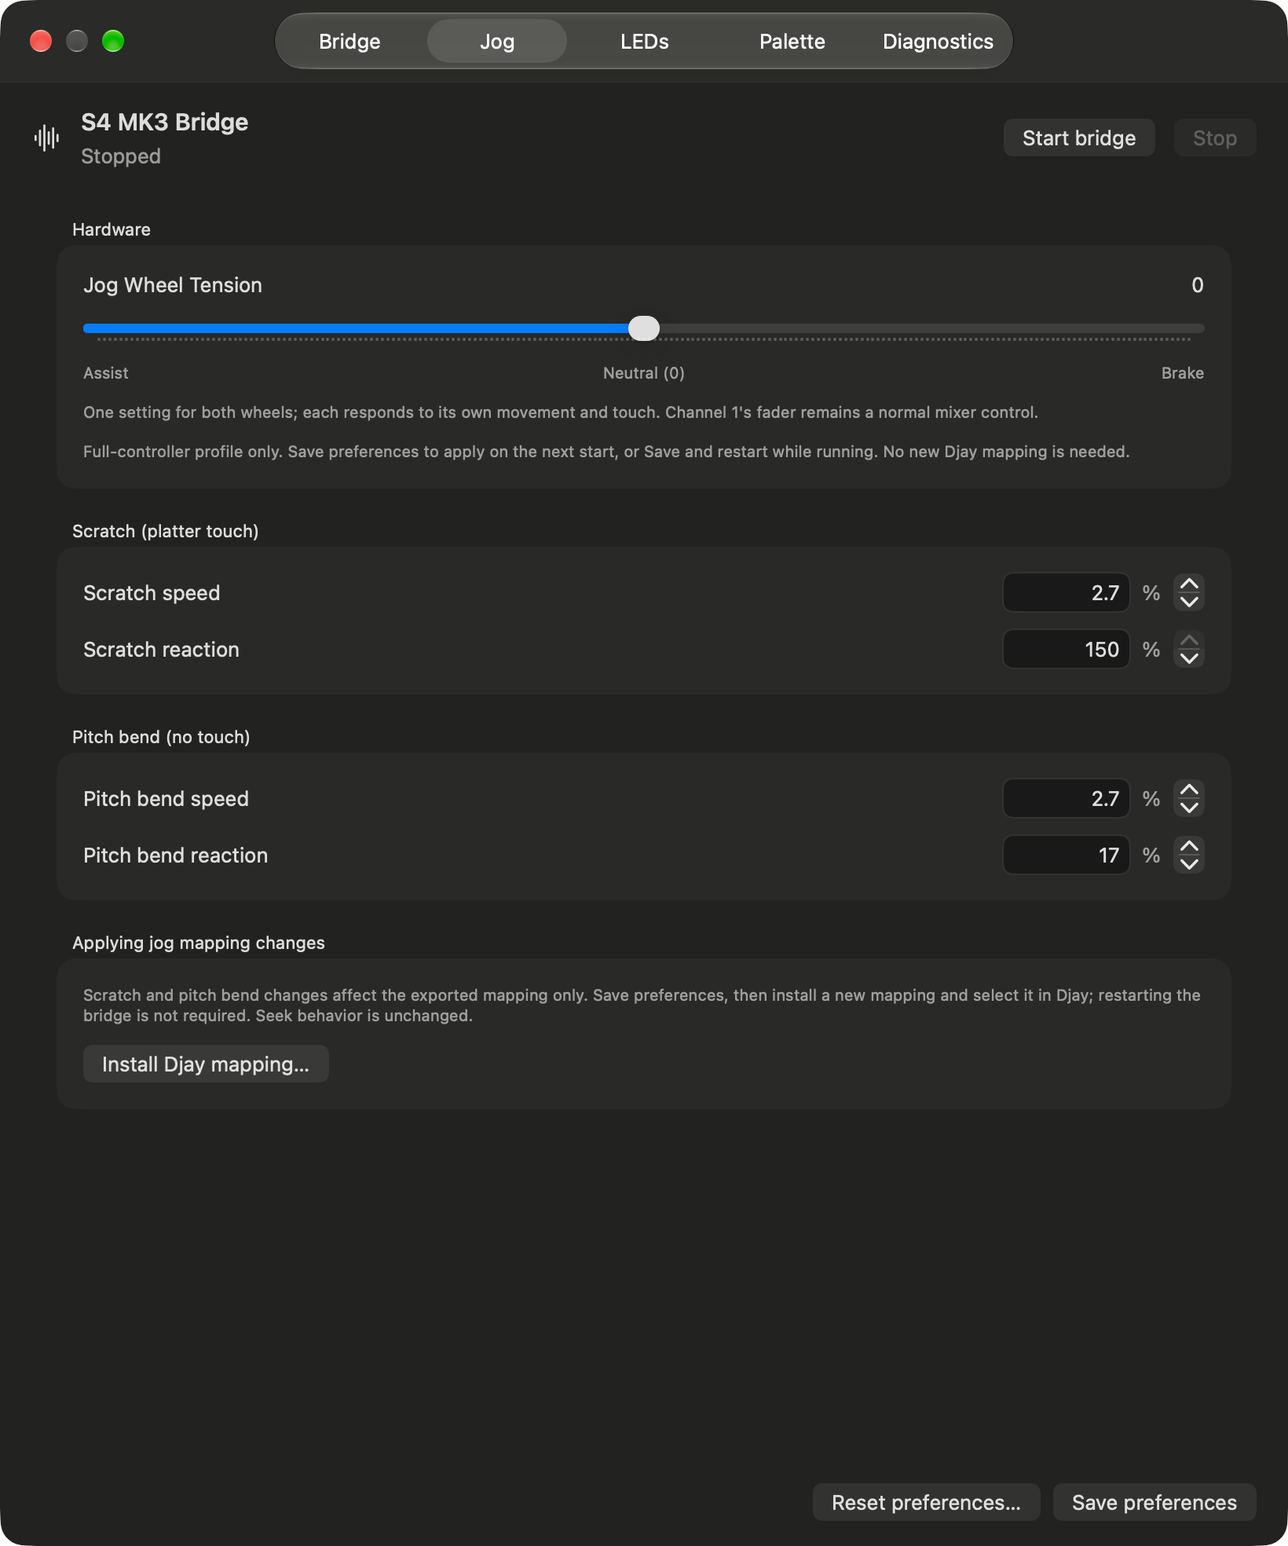
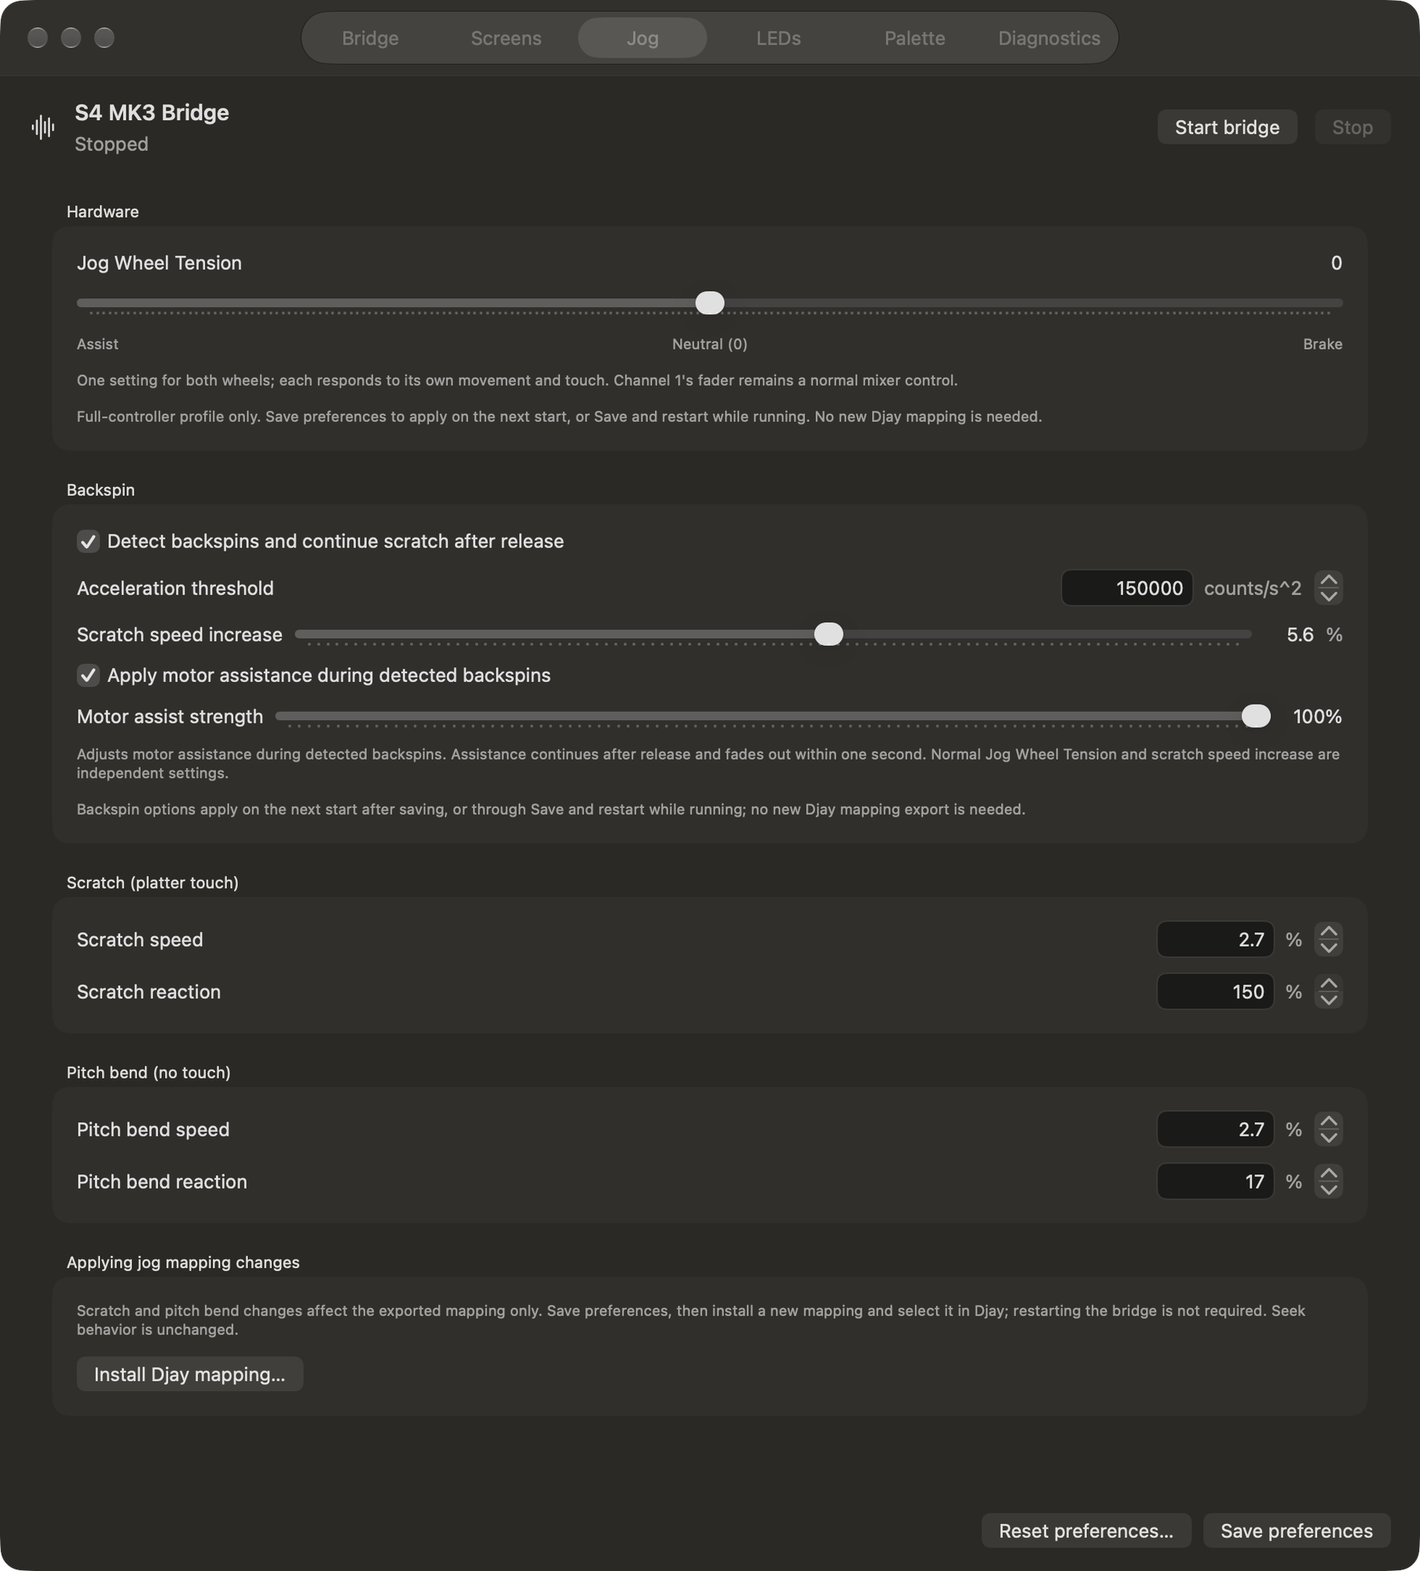
Rename release to 0.2.1-beta.1 and refresh Jog guide

diff --git a/docs/release-0.2.0-beta.2.md b/docs/release-0.2.0-beta.2.md
@@ -1,93 +1,8 @@
 # S4 MK3 Bridge 0.2.0-beta.2
 
-## What's changed since 0.2.0-beta.1
+This release was renamed to
+[0.2.1-beta.1](release-0.2.1-beta.1.md), with rebuilt installers and the same
+controller behavior. Use that release for downloads and update instructions.
 
-### Backspins continue after you let go
-
-Previously, lifting your hand ended scratching even when the platter was still
-spinning backward. A detected backspin now keeps following the wheel's real
-movement after release, so the sound can follow the remaining spin instead of
-cutting straight back to normal playback.
-
-Use **Turntable mode** and give the platter a sharp backward flick, then release.
-Ordinary scratch releases still return to nudging. Touching the platter again,
-stopping it or reversing direction ends the backspin. If you change decks while
-it coasts, the backspin stays with the deck that started it.
-
-In **Settings > Jog > Backspin**:
-
-- **Detection** is enabled by default. Raise **Acceleration threshold** if
-  ordinary scratches trigger it too easily; lower it if your flicks are missed.
-- **Scratch speed increase** adds extra software response only during a
-  detected backspin. The default is **5.6%**, giving backspins more travel
-  without changing ordinary scratch response. Reduce it if you prefer less.
-- **Motor assistance** helps the wheel carry a detected backspin. It is
-  experimental, **on by default at 100% strength**. Set **Motor assist strength**
-  from **0-100%**, or switch assistance off, to suit your feel. This is independent
-  of normal Jog Wheel Tension and software scratch speed. After release,
-  assistance fades out within one second; catching or stopping the wheel
-  ends it earlier.
-
-Choose **Save and restart** to apply changes while running, or save them before
-the next Start. These backspin settings do not need a new mapping export.
-The screen shows **BACKSPIN** and its deck while detection is active, helping
-you tune the threshold. This is gesture-driven assistance, not a platter that
-rotates continuously with playback.
-
-### Browse effects with Shift + knob
-
-Stepping through a long effect list one button press at a time was tedious.
-You can now hold **Shift on the FX strip's side** and turn parameter knob
-**1, 2 or 3** to browse that slot's effects: **clockwise for next,
-counterclockwise for previous**. A larger turn scrolls several effects.
-The strip still controls the deck chosen with the channel's FX1 or FX2 button.
-
-The knobs have end stops. Release Shift, reposition the knob, then hold Shift
-again to keep browsing. Without Shift, the knob returns to parameter control
-and waits until you reach or cross Djay's parameter value before taking over.
-Crossing that value resumes parameter adjustment, so repositioning is not a
-dedicated silent reset gesture. Dry/wet works as before, and **Shift + effect
-button** remains available for a single next-effect step.
-
-### Clearer lights and fewer false FX warnings
-
-REV and FLX no longer stay almost equally bright when off and on. Their idle
-backlight now follows JOG's idle intensity, making active reverse or Slip
-easier to recognize. Shift is dim at rest and bright while held.
-
-FX pickup warnings also stop briefly reappearing during ordinary knob turns
-just because Djay has not returned the updated value yet. A genuine mismatch
-after changing targets or editing a value with the mouse still asks you to
-move through the software value before taking control.
-
-## Updating
-
-1. Stop the bridge and quit the old app.
-2. Open **S4 MK3 Bridge-0.2.0-beta.2-arm64.dmg** and replace the app in
-   **Applications**, or use the ZIP. Your saved preferences are preserved.
-   Diagnostics should show **0.2.0-beta.2 (build 6)**.
-   The new defaults apply to fresh settings and fields absent from an older
-   configuration; explicitly saved values, including assistance off, are kept.
-3. Use **Install Djay mapping...** in the new app. Save under a new name to
-   preserve custom mappings, then select that configuration in Djay.
-4. Start the bridge. If you changed mappings while it was running, stop and
-   start it again.
-
-**The new mapping is required for Shift + FX knob browsing.** The older mapping
-does not include those controls.
-
-See the [user guide](https://github.com/jtoronto/S4MK3-HID-MIDI-BRIDGE/blob/main/docs/user-guide.md)
-for the full workflows and settings.
-
-Requires an Apple Silicon Mac, macOS 12 or later, Djay Pro with PRO access,
-and a powered S4 MK3. The app remains ad-hoc signed rather than notarized;
-follow the [first-launch instructions](https://github.com/jtoronto/S4MK3-HID-MIDI-BRIDGE/blob/main/README.md#download-and-install)
-if macOS blocks it.
-
-## Still a beta
-
-The main FX ON button still duplicates slot 1 rather than bypassing the whole
-bank. Screens do not show artwork, waveforms or track titles. Playback-driven
-platter rotation remains unsupported. A wheel sensor-time error or USB
-disconnect can still stop the bridge; automatic recovery from brief input
-gaps does not cover those faults.
+The original build's verification remains in
+[its historical validation record](release-0.2.0-beta.2-validation.md).

diff --git a/docs/release-0.2.1-beta.1.md b/docs/release-0.2.1-beta.1.md
@@ -1,0 +1,93 @@
+# S4 MK3 Bridge 0.2.1-beta.1
+
+## What's changed since 0.2.0-beta.1
+
+### Backspins continue after you let go
+
+Previously, lifting your hand ended scratching even when the platter was still
+spinning backward. A detected backspin now keeps following the wheel's real
+movement after release, so the sound can follow the remaining spin instead of
+cutting straight back to normal playback.
+
+Use **Turntable mode** and give the platter a sharp backward flick, then release.
+Ordinary scratch releases still return to nudging. Touching the platter again,
+stopping it or reversing direction ends the backspin. If you change decks while
+it coasts, the backspin stays with the deck that started it.
+
+In **Settings > Jog > Backspin**:
+
+- **Detection** is enabled by default. Raise **Acceleration threshold** if
+  ordinary scratches trigger it too easily; lower it if your flicks are missed.
+- **Scratch speed increase** adds extra software response only during a
+  detected backspin. The default is **5.6%**, giving backspins more travel
+  without changing ordinary scratch response. Reduce it if you prefer less.
+- **Motor assistance** helps the wheel carry a detected backspin. It is
+  experimental, **on by default at 100% strength**. Set **Motor assist strength**
+  from **0-100%**, or switch assistance off, to suit your feel. This is independent
+  of normal Jog Wheel Tension and software scratch speed. After release,
+  assistance fades out within one second; catching or stopping the wheel
+  ends it earlier.
+
+Choose **Save and restart** to apply changes while running, or save them before
+the next Start. These backspin settings do not need a new mapping export.
+The screen shows **BACKSPIN** and its deck while detection is active, helping
+you tune the threshold. This is gesture-driven assistance, not a platter that
+rotates continuously with playback.
+
+### Browse effects with Shift + knob
+
+Stepping through a long effect list one button press at a time was tedious.
+You can now hold **Shift on the FX strip's side** and turn parameter knob
+**1, 2 or 3** to browse that slot's effects: **clockwise for next,
+counterclockwise for previous**. A larger turn scrolls several effects.
+The strip still controls the deck chosen with the channel's FX1 or FX2 button.
+
+The knobs have end stops. Release Shift, reposition the knob, then hold Shift
+again to keep browsing. Without Shift, the knob returns to parameter control
+and waits until you reach or cross Djay's parameter value before taking over.
+Crossing that value resumes parameter adjustment, so repositioning is not a
+dedicated silent reset gesture. Dry/wet works as before, and **Shift + effect
+button** remains available for a single next-effect step.
+
+### Clearer lights and fewer false FX warnings
+
+REV and FLX no longer stay almost equally bright when off and on. Their idle
+backlight now follows JOG's idle intensity, making active reverse or Slip
+easier to recognize. Shift is dim at rest and bright while held.
+
+FX pickup warnings also stop briefly reappearing during ordinary knob turns
+just because Djay has not returned the updated value yet. A genuine mismatch
+after changing targets or editing a value with the mouse still asks you to
+move through the software value before taking control.
+
+## Updating
+
+1. Stop the bridge and quit the old app.
+2. Open **S4 MK3 Bridge-0.2.1-beta.1-arm64.dmg** and replace the app in
+   **Applications**, or use the ZIP. Your saved preferences are preserved.
+   Diagnostics should show **0.2.1-beta.1 (build 7)**.
+   The new defaults apply to fresh settings and fields absent from an older
+   configuration; explicitly saved values, including assistance off, are kept.
+3. Use **Install Djay mapping...** in the new app. Save under a new name to
+   preserve custom mappings, then select that configuration in Djay.
+4. Start the bridge. If you changed mappings while it was running, stop and
+   start it again.
+
+**The new mapping is required for Shift + FX knob browsing.** The older mapping
+does not include those controls.
+
+See the [user guide](https://github.com/jtoronto/S4MK3-HID-MIDI-BRIDGE/blob/main/docs/user-guide.md)
+for the full workflows and settings.
+
+Requires an Apple Silicon Mac, macOS 12 or later, Djay Pro with PRO access,
+and a powered S4 MK3. The app remains ad-hoc signed rather than notarized;
+follow the [first-launch instructions](https://github.com/jtoronto/S4MK3-HID-MIDI-BRIDGE/blob/main/README.md#download-and-install)
+if macOS blocks it.
+
+## Still a beta
+
+The main FX ON button still duplicates slot 1 rather than bypassing the whole
+bank. Screens do not show artwork, waveforms or track titles. Playback-driven
+platter rotation remains unsupported. A wheel sensor-time error or USB
+disconnect can still stop the bridge; automatic recovery from brief input
+gaps does not cover those faults.

diff --git a/README.md b/README.md
@@ -28,9 +28,9 @@ screens without requiring MIDI or development knowledge.
    the disk image.
 4. Open **S4 MK3 Bridge** from Applications.
 
-**0.2.0-beta.2 (build 6)** adds backspin continuation and motor assistance,
+**0.2.1-beta.1 (build 7)** adds backspin continuation and motor assistance,
 Shift + FX knob effect browsing, and clearer LED/FX feedback. See
-[what changed and how to use it](docs/release-0.2.0-beta.2.md).
+[what changed and how to use it](docs/release-0.2.1-beta.1.md).
 Version 0.2.0 adds screens, updated Preview/CUE/library controls, startup channel
 synchronization, FX pickup and jump-size restoration. Use the app and mapping
 supplied together; beta.3's older mapping does not provide these additions.
@@ -90,8 +90,8 @@ _Bridge controls and mapping installation._
 ## Controls and differences from Traktor
 
 This section and the [user guide](docs/user-guide.md) describe the current
-0.2.0-beta.2 build. Backspin continuation, Shift + FX knob browsing and the latest
-lamp/FX-warning corrections require beta.2; beta.1 lacks them.
+0.2.1-beta.1 build. Backspin continuation, Shift + FX knob browsing and the latest
+lamp/FX-warning corrections are not included in 0.2.0-beta.1.
 
 The mapping covers four-deck transport, touch scratching and pitch bending,
 mixing, EQ, headphone cue, loops, browsing, hotcues, samples, Neural Mix, and
@@ -205,12 +205,27 @@ run while the bridge is running. **Saving or restarting alone doesn't apply
 jog mapping changes.** Keep existing custom mappings under their original names.
 
 Speed and Reaction adjust Djay's response, independently of hardware tension.
-Current-source builds handle released backspin through the separate
-[Backspin controls](docs/user-guide.md#backspin-detection), not these mapping parameters.
 
-![Jog settings showing Hardware Jog Wheel Tension and separate scratch and pitch-bend controls](docs/images/jog-settings.png)
+#### Backspins
 
-_Jog settings at Neutral (0), with the calibrated scratch and pitch-bend defaults._
+A sharp backward flick in Turntable mode can continue scratching after you
+release the platter, following its remaining real movement. Catching or stopping
+the wheel ends the backspin.
+
+In **Jog > Backspin**, adjust the detection threshold, **Scratch speed increase**
+and **Motor assist strength**. The defaults are **5.6%** extra scratch speed and
+motor assistance **on at 100%**. Software speed and motor help are independent
+of your normal scratch response and Jog Wheel Tension. Motor help fades out
+within one second after release; this is not playback-driven platter rotation.
+
+Use **Save and restart** to apply changes. No mapping export is needed for
+backspin options, and upgrading preserves explicit saved choices. See the
+[Backspin guide](docs/user-guide.md#backspin-detection) for tuning and details.
+
+![Jog settings showing Hardware tension, Backspin detection, scratch speed increase and motor assist controls, plus scratch and pitch-bend mapping settings](docs/images/jog-settings.png)
+
+_Jog settings with the Backspin controls, 5.6% speed increase and motor assistance
+enabled at 100%, alongside neutral tension and calibrated scratch/pitch-bend defaults._
 
 The menu-bar icon turns green while the bridge is running. In source builds,
 it turns red if requested screens are blocked or fail while the bridge keeps
@@ -224,16 +239,6 @@ and remaining checks.
 
 Open bugs and unresolved behavior:
 
-- **Jog feel and backspin:** current source adds experimental backspin detection,
-  an adjustable threshold and optional scratch-speed increase, with an owning-deck
-  screen indicator. Tune the threshold and boost to your gestures; ordinary
-  scratch response still depends on Djay's Speed/Reaction settings. A separate
-  motor-assist option defaults on at 100% strength, with its own 0-100% control. It continues
-  after release with a one-second fade, preserving normal tension. Save/restart
-  lets you compare settings yourself. It is not playback-driven rotation.
-  The default backspin-only scratch speed increase is 5.6%; explicit saved
-  settings are preserved when upgrading.
-  See [Backspin controls](docs/user-guide.md#backspin-detection).
 - **Sensor-time safety exit:** reversed wheel-sensor time stops the bridge.
   Keep the exact Diagnostics error if this occurs; it is separate from the
   automatically recovering 50 ms input-gap path.

diff --git a/docs/release-0.2.1-beta.1-validation.md b/docs/release-0.2.1-beta.1-validation.md
@@ -1,0 +1,67 @@
+# Release version replacement: 0.2.1-beta.1
+
+October 26, 2026. Internal verification record. End-user notes are in
+[release-0.2.1-beta.1.md](release-0.2.1-beta.1.md).
+
+## Scope
+
+After publication of 0.2.0-beta.2, the user requested 0.2.1-beta.1 and explicitly
+selected replacement of the published release. Source and bundle metadata now
+use release `0.2.1-beta.1`, numeric version `0.2.1` and build `7`. Controller
+behavior, mapping and the requested 5.6%/enabled/100% backspin defaults are
+unchanged. Explicit saved preferences remain preserved.
+
+GitHub release ID 424776748 was confirmed mutable. The replacement uses a new
+annotated tag and rebuilt installers, without rewriting or deleting the
+historical `v0.2.0-beta.2` tag. The original local installers and
+[validation record](release-0.2.0-beta.2-validation.md) remain preserved.
+
+## Source checks
+
+All 358 Rust tests passed in a single serial no-fail-fast run, followed by all
+55 Swift tests. Formatting, strict locked all-target/all-feature Clippy, the
+locked all-target build, build-script syntax, Info.plist lint and whitespace
+checks passed. The two existing SwiftPM unhandled-file warnings remain.
+The later README/image edits do not alter bundled source or resources.
+
+## README correction and screenshot
+
+The user requested a fresh Jog screenshot including Backspin, dark mode to
+match the other images, and removal of accepted backspin functionality from
+Known issues. README now describes backspins under ordinary Jog usage and
+retains actual unresolved faults in its limitations list.
+
+`docs/images/jog-settings.png` is a fresh 1960 x 2168 native dark-mode capture
+of the production `BridgeSettingsView`. It shows Hardware, Backspin, Scratch,
+Pitch bend and mapping instructions without clipped sections. The shown
+backspin defaults are 5.6%, motor assistance enabled and strength 100%.
+
+The capture used an isolated native harness with temporary preference/resource
+directories, no bridge executable and an offline NI agent. No Start, Save or
+hardware operation was invoked, and no real preferences were changed. The
+capture helper was compiled with all production Swift sources; it was closed
+after capture. A command-line capture omitted content, so the final image was
+saved directly from the native computer capture backend and visually inspected
+from its final repository path. It is not a recreated or generated mockup.
+
+## Installers
+
+Built separately with `CARGO_PROFILE_RELEASE_STRIP=none` and
+`S4_BRIDGE_OUTPUT_DIR="$PWD/dist/Release-0.2.1-beta.1-20261026"`:
+
+- `S4 MK3 Bridge.app`
+- `S4 MK3 Bridge-arm64.zip`
+- `S4 MK3 Bridge-0.2.1-beta.1-arm64.dmg`
+
+Build, deep strict signatures, ZIP integrity and DMG verification passed.
+The app, extracted ZIP app and read-only-mounted DMG app each passed release,
+numeric/build version, bundled CLI version, mapping plist lint and byte
+comparisons of all default configurations, font license and mapping.
+The mapping matches the preceding accepted release byte-for-byte.
+Temporary extraction and mount directories were cleaned up. No app was launched
+and no HID, MIDI, motor, screen or audio activity was triggered by these checks.
+
+```text
+c4fdf7e1873039eacfd3aebc85770b3a2a16513d7ddf61b633c1d64f31bb48fb  S4 MK3 Bridge-arm64.zip
+bba664421da9e6f6e74141b18dffca14c4a4cf8615d50b7c0c0adb29d822a186  S4 MK3 Bridge-0.2.1-beta.1-arm64.dmg
+```

diff --git a/macos/README.md b/macos/README.md
@@ -15,15 +15,15 @@ bash macos/build-app.sh
 
 The results are `dist/S4 MK3 Bridge.app`, the transfer archive
 `dist/S4 MK3 Bridge-arm64.zip`, and the versioned release disk image
-`dist/S4 MK3 Bridge-0.2.0-beta.2-arm64.dmg`. The script compiles
+`dist/S4 MK3 Bridge-0.2.1-beta.1-arm64.dmg`. The script compiles
 `macos/S4BridgeApp.swift` against the installed Apple macOS SDK, builds
 `s4mk3-hid-midi-bridge` with `cargo build --locked --release`, copies
 `examples/led-config.json`, `examples/jog-config.json`, and
 `examples/tension-config.json` into the app resources as `default-led-config.json`,
 `default-jog-config.json`, and `default-tension-config.json`, and creates
 `S4 MK3 Bridge.djayMidiMapping` by running that same release bridge with
-`--generate-mapping`. Cargo identifies this release as `0.2.0-beta.2`;
-the bundle uses numeric version `0.2.0`, build `6`, and records the complete
+`--generate-mapping`. Cargo identifies this release as `0.2.1-beta.1`;
+the bundle uses numeric version `0.2.1`, build `7`, and records the complete
 release in `S4BridgeReleaseVersion`. The script checks alignment with Cargo.
 It generates `AppIcon.icns` from `macos/Assets/AppIcon.png` and includes an
 Applications shortcut in the compressed read-only DMG.

diff --git a/docs/user-guide.md b/docs/user-guide.md
@@ -3,13 +3,13 @@
 Use this guide to DJ with the S4 MK3, understand the custom mappings, and
 recognize what its lights and screens are telling you.
 
-**Build coverage:** this guide follows the full-controller 0.2.0-beta.2 build.
+**Build coverage:** this guide follows the full-controller 0.2.1-beta.1 build.
 Version 0.1.1-beta.3 and older downloads lack its screens and updated control workflows.
 Use the app and mapping supplied together; check the [download notes](../README.md#download-and-install)
 for what the published package includes.
 Backspin continuation, optional motor assistance, the lamp/FX-warning corrections
-and Shift + effect-knob browsing are new in beta.2. Earlier published builds
-do not include them. Install beta.2's newly generated mapping under a new name,
+and Shift + effect-knob browsing are new since 0.2.0-beta.1. Install the
+0.2.1-beta.1 mapping under a new name,
 preserving custom maps, for Shift + effect-knob browsing.
 
 The DJ laptop needs the standalone app, not Rust, Cargo or this repository.

diff --git a/AGENTS.md b/AGENTS.md
@@ -92,10 +92,10 @@ Outputs:
 
 - `dist/S4 MK3 Bridge.app`
 - `dist/S4 MK3 Bridge-arm64.zip`
-- `dist/S4 MK3 Bridge-0.2.0-beta.2-arm64.dmg`
+- `dist/S4 MK3 Bridge-0.2.1-beta.1-arm64.dmg`
 
-Cargo package/executable: `s4mk3-hid-midi-bridge`, release `0.2.0-beta.2`.
-The bundle uses numeric version `0.2.0`, build `6`, and custom
+Cargo package/executable: `s4mk3-hid-midi-bridge`, release `0.2.1-beta.1`.
+The bundle uses numeric version `0.2.1`, build `7`, and custom
 `S4BridgeReleaseVersion` for the complete prerelease identifier.
 `macos/Assets/AppIcon.png` generates the bundled `.icns` during packaging.
 
@@ -106,7 +106,7 @@ Verify a rebuilt package:
 
        codesign --verify --deep --strict "dist/S4 MK3 Bridge.app"
        unzip -tq "dist/S4 MK3 Bridge-arm64.zip"
-       hdiutil verify "dist/S4 MK3 Bridge-0.2.0-beta.2-arm64.dmg"
+       hdiutil verify "dist/S4 MK3 Bridge-0.2.1-beta.1-arm64.dmg"
 
 Signing is currently ad-hoc, not Developer ID signing or notarization.
 
